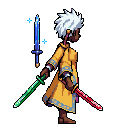
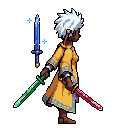
Riley preview: add real neck, move far shoulder behind chest

Changed region(s): [[0.5, 0.3125, 0.625, 0.5]]

diff --git a/website/public/riley-neck-shoulder-preview.html b/website/public/riley-neck-shoulder-preview.html
@@ -1,1 +1,1 @@
-<!doctype html><html lang="en"><head><meta charset="utf-8"><meta name="viewport" content="width=device-width,initial-scale=1"><title>Riley · Neck and shoulder study</title></head><body style="margin:0;background:#151b27;color:#e2e8f0;font:16px system-ui"><main id="hud-root" style="max-width:1000px;margin:auto;padding:24px"><h1>Riley · Neck & shoulders</h1><p><strong>Still study · Preview only · Game unchanged</strong></p><p>Far-shoulder reconstruction: the screen-right raised cap is removed and replaced with a lower, sloping shoulder socket and a tapered sleeve connecting to the existing lower arm. This changes the silhouette and armhole construction, not just its shading. Only pixels within x68–78 / y43–60 are changed. Face, hair, near shoulder, swords and canvas size are preserved. Animation and the fourth-sword previews are untouched.</p><div style="display:flex;flex-wrap:wrap;gap:24px"><section style="flex:1 1 320px"><h2>Original</h2><img src="./previews/riley/ingame-placement/frame_000.png" alt="Original Riley sprite" style="width:100%;max-width:448px;image-rendering:pixelated;background:#252e3e"></section><section style="flex:1 1 320px"><h2>Proposed cleanup</h2><img id="proposal" src="./previews/riley/anatomy-study/proposed.png" alt="Riley with proposed neck and shoulder cleanup" style="width:100%;max-width:448px;image-rendering:pixelated;background:#252e3e"></section></div><h2>Neck & shoulder close-up</h2><div style="display:flex;flex-wrap:wrap;gap:24px"><section style="flex:1 1 300px"><h3>Original</h3><img alt="Original neck and shoulder detail" src="./previews/riley/anatomy-study/original-detail.png" style="width:100%;max-width:320px;image-rendering:pixelated;background:#252e3e"></section><section style="flex:1 1 300px"><h3>Proposed cleanup</h3><img alt="Proposed cleanup neck and shoulder detail" src="./previews/riley/anatomy-study/proposed-detail.png" style="width:100%;max-width:320px;image-rendering:pixelated;background:#252e3e"></section></div><p id="status">Compare the neck beneath the jaw and the slope into the upper arms. This is a proposal, not an applied character update.</p></main><script>window.playtest=()=>({previewOnly:true,gameModified:false,animated:false,images:[...document.images].map(i=>({loaded:i.complete&&i.naturalWidth>0,width:i.naturalWidth,height:i.naturalHeight}))});</script></body></html>
+<!doctype html><html lang="en"><head><meta charset="utf-8"><meta name="viewport" content="width=device-width,initial-scale=1"><title>Riley · Neck and shoulder study</title></head><body style="margin:0;background:#151b27;color:#e2e8f0;font:16px system-ui"><main id="hud-root" style="max-width:1000px;margin:auto;padding:24px"><h1>Riley · Neck & shoulders</h1><p><strong>Still study · Preview only · Game unchanged</strong></p><p><b>Neck:</b> the jaw used to sit straight on a yellow bump. Now a shaded neck runs from under the jaw down into the collar (about 4 px taller).<br><b>Far shoulder:</b> that yellow bump under the chin <i>was</i> the far shoulder — sitting in the neck’s spot. It’s removed; the far arm now starts from behind the chest edge one row lower and is a tone darker so it reads as behind the body.<br>Face, hair, near arm, swords and size unchanged. Preview only.</p><div style="display:flex;flex-wrap:wrap;gap:24px"><section style="flex:1 1 320px"><h2>Original</h2><img src="./previews/riley/ingame-placement/frame_000.png" alt="Original Riley sprite" style="width:100%;max-width:448px;image-rendering:pixelated;background:#252e3e"></section><section style="flex:1 1 320px"><h2>Proposed cleanup</h2><img id="proposal" src="./previews/riley/anatomy-study/proposed.png?v=3" alt="Riley with proposed neck and shoulder cleanup" style="width:100%;max-width:448px;image-rendering:pixelated;background:#252e3e"></section></div><h2>Neck & shoulder close-up</h2><div style="display:flex;flex-wrap:wrap;gap:24px"><section style="flex:1 1 300px"><h3>Original</h3><img alt="Original neck and shoulder detail" src="./previews/riley/anatomy-study/original-detail.png" style="width:100%;max-width:320px;image-rendering:pixelated;background:#252e3e"></section><section style="flex:1 1 300px"><h3>Proposed cleanup</h3><img alt="Proposed cleanup neck and shoulder detail" src="./previews/riley/anatomy-study/proposed-detail.png?v=3" style="width:100%;max-width:320px;image-rendering:pixelated;background:#252e3e"></section></div><p id="status">Compare the neck beneath the jaw and the slope into the upper arms. This is a proposal, not an applied character update.</p></main><script>window.playtest=()=>({previewOnly:true,gameModified:false,animated:false,images:[...document.images].map(i=>({loaded:i.complete&&i.naturalWidth>0,width:i.naturalWidth,height:i.naturalHeight}))});</script></body></html>

diff --git a/tmp/fix_neck.py b/tmp/fix_neck.py
@@ -1,0 +1,41 @@
+from PIL import Image
+src='website/public/previews/riley/ingame-placement/frame_000.png'
+a=Image.open(src).convert('RGBA'); px=a.load()
+C={'#':(5,4,4,255),'n':(68,30,36,255),'v':(127,76,52,255),'o':(117,62,45,255),'u':(70,18,31,255),
+   'K':(241,185,69,255),'L':(245,197,94,255),'P':(211,134,54,255),'Q':(179,103,39,255),'S':(196,111,41,255),
+   'b':(151,88,47,255),'T':(181,84,42,255),'.':(0,0,0,0)}
+def put(y,x0,s):
+    for i,ch in enumerate(s): px[x0+i,y]=C[ch]
+# 1) NECK: open the jaw line and run a real neck down behind the chin into the collar
+put(41,66,'uuuuuu#####')      # shadow under jaw, chin outline kept at x72-76
+put(42,66,'nnnnno#.')         # neck, throat edge outline x72
+put(43,66,'nnnnvo#')
+put(44,66,'nnnvvo#')          # was the far-shoulder cap (T QQQ) — now neck
+# 2) COLLAR + CHEST: chest top starts below the neck, front edge pulled in (no cap under chin)
+put(45,65,'ubQQQQT#.')
+put(46,65,'QbQKKKP#..')
+# 3) FAR ARM: emerges from BEHIND the chest outline at row 47, not from a cap under the chin
+put(47,67,'KKKP#SQ#')
+# darken the far arm one tone so it reads as behind the body
+start={48:71,49:72,50:73,51:73,52:73,53:73,54:73,55:73,56:73,57:73,58:73}
+step={C['L']:C['K'],C['K']:C['P'],C['P']:C['Q'],C['Q']:C['S']}
+for y,x0 in start.items():
+    for x in range(x0,80):
+        p=px[x,y]
+        if p==C['#'] : break
+        if p in step: px[x,y]=step[p]
+out='website/public/previews/riley/anatomy-study/proposed.png'
+a.save(out)
+o=Image.open(src).convert('RGBA')
+for im,n in ((o,'original-detail'),(a,'proposed-detail')):
+    c=im.crop((52,26,84,62)); bg=Image.new('RGBA',c.size,(37,46,62,255)); bg.alpha_composite(c)
+    bg.resize((c.width*10,c.height*10),Image.NEAREST).save(f'website/public/previews/riley/anatomy-study/{n}.png')
+W=Image.new('RGBA',(64,36),(37,46,62,255)); W.alpha_composite(o.crop((52,26,84,62)),(0,0)); W.alpha_composite(a.crop((52,26,84,62)),(32,0))
+W.resize((640,360),Image.NEAREST).save('tmp/cmp2.png')
+# close the top of the far arm's outline
+a=Image.open(out).convert('RGBA'); a.putpixel((73,46),C['#']); a.save(out)
+for im,n in ((a,'proposed-detail'),):
+    c=im.crop((52,26,84,62)); bg=Image.new('RGBA',c.size,(37,46,62,255)); bg.alpha_composite(c)
+    bg.resize((c.width*10,c.height*10),Image.NEAREST).save(f'website/public/previews/riley/anatomy-study/{n}.png')
+W=Image.new('RGBA',(64,36),(37,46,62,255)); W.alpha_composite(o.crop((52,26,84,62)),(0,0)); W.alpha_composite(a.crop((52,26,84,62)),(32,0))
+W.resize((640,360),Image.NEAREST).save('tmp/cmp2.png')
